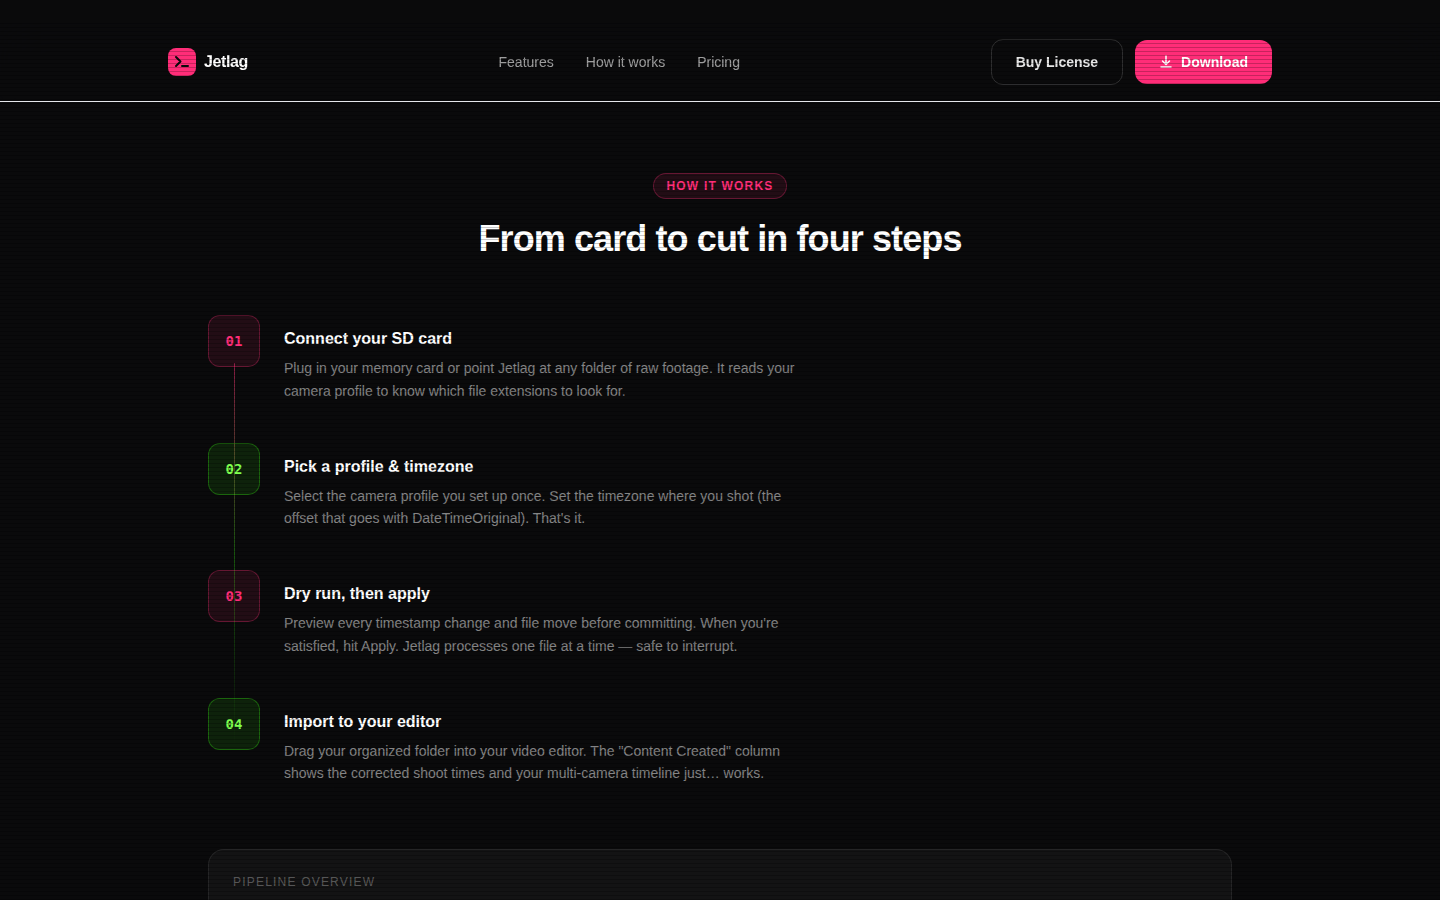
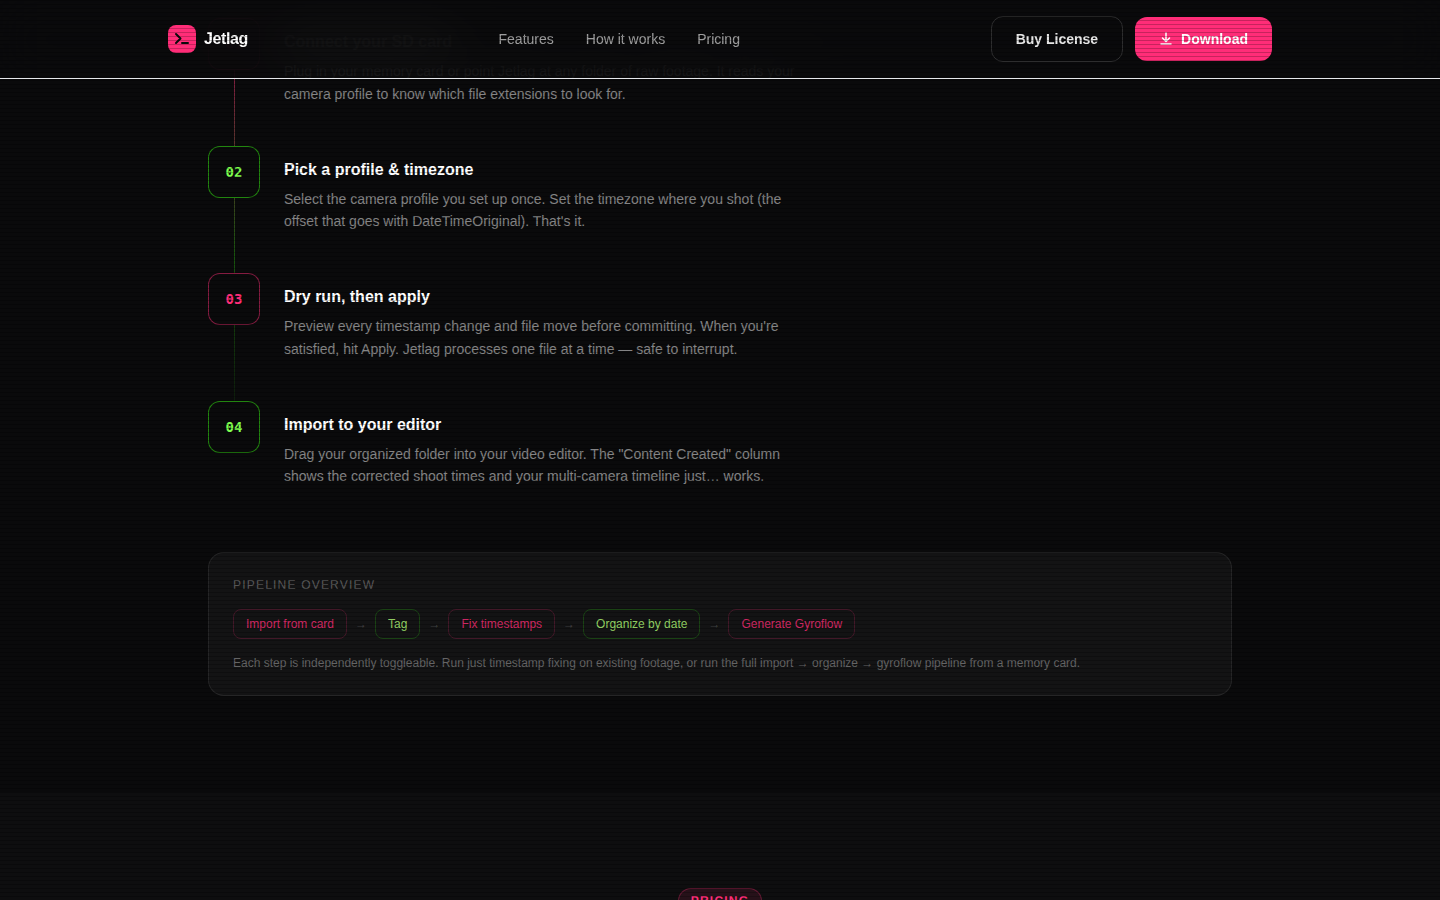
fix step number blobs obscuring connecting line in how-it-works
The blob backgrounds were bg-neon-pink/10 and bg-amber-500/10 (10% opacity),
allowing the connecting line to bleed through them visually. Fixed by:

- Adding z-10 to the outer blob wrapper so it stacks above the absolute
  connecting line
- Replacing the semi-transparent bg with bg-neutral-950 (solid dark, matches
  page background) so the blob fully blocks the line behind it
- Strengthening the border from /30 to /50 to maintain the neon look without
  the filled tint
- Removing redundant z-10 from inner blob div (now handled by wrapper)

Tested by scrolling to the how-it-works section in a preview build;
connecting line now cleanly threads between steps and disappears behind
each blob rather than bleeding through it.

https://claude.ai/code/session_014vKsoM7N6jJaXmHTsB2dXb

diff --git a/web/src/sections/how-it-works.js b/web/src/sections/how-it-works.js
@@ -39,11 +39,11 @@ export function renderHowItWorks() {
           <div class="space-y-8">
             ${steps.map((step, i) => /* html */`
               <div class="flex gap-6 group">
-                <div class="relative flex-shrink-0">
-                  <div class="flex h-[52px] w-[52px] items-center justify-center rounded-xl border font-mono z-10 relative text-sm font-bold
+                <div class="relative flex-shrink-0 z-10">
+                  <div class="flex h-[52px] w-[52px] items-center justify-center rounded-xl border font-mono text-sm font-bold bg-neutral-950
                     ${i % 2 === 0
-                      ? 'border-neon-pink/30 bg-neon-pink/10 text-neon-pink'
-                      : 'border-amber-500/30 bg-amber-500/10 text-amber-400'}">
+                      ? 'border-neon-pink/50 text-neon-pink'
+                      : 'border-amber-500/50 text-amber-400'}">
                     ${step.number}
                   </div>
                 </div>
